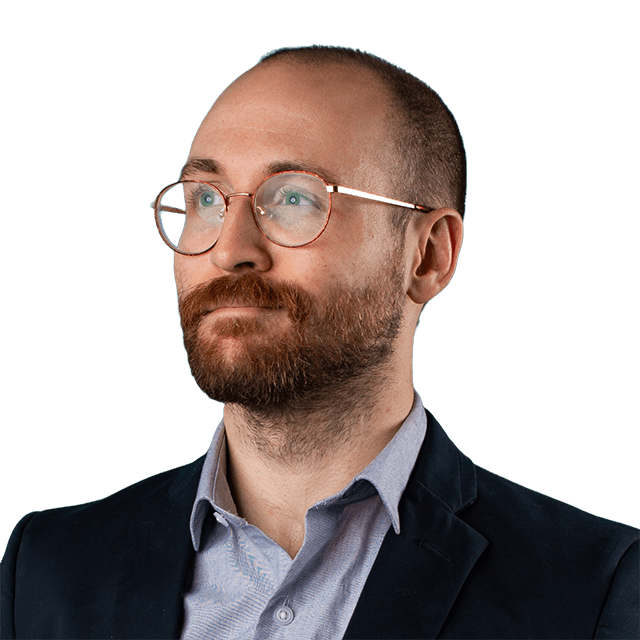
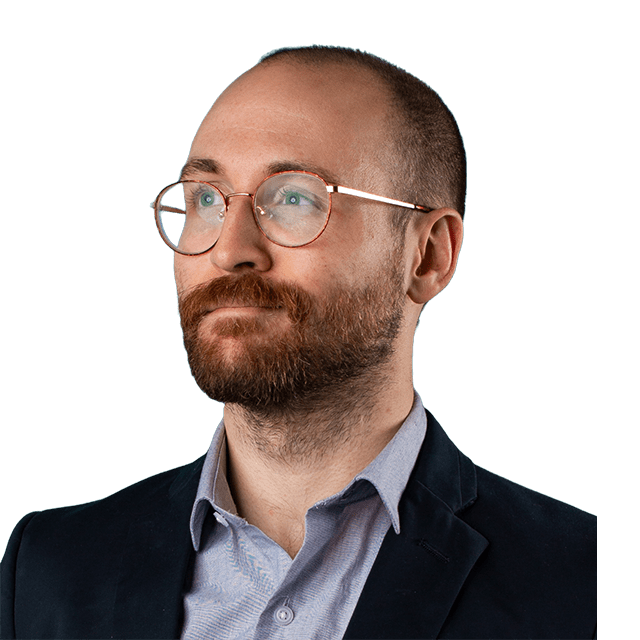
Updated HeroSection and added JobOffers, NavBar components

Changed region(s): [[0.9062, 0.8125, 1.0, 1.0]]

diff --git a/frontend/app/components/HeroSection.tsx b/frontend/app/components/HeroSection.tsx
@@ -4,9 +4,9 @@ import ZaidSchwartz from "@/public/images/zaid-schwartz.png";
 export default function HeroSection() {
     return (
         <header>
-            <div className="max-w-7xl mx-auto w-full px-10 mt-12 grid grid-cols-1 lg:grid-cols-12 items-center gap-12">
+            <div className="max-w-7xl mx-auto w-full px-10 grid grid-cols-1 lg:grid-cols-12 items-center gap-12">
                 <div className="lg:col-span-8">
-                    <h1 className="text-black text-6xl font-semibold leading-tight">
+                    <h1 className="text-black text-6xl font-semibold leading-tight -mt-30">
                         Trouvez le poste<br />
                         qui vous <span className="text-[#2563EB]">ressemble</span>.
                     </h1>
@@ -26,11 +26,11 @@ export default function HeroSection() {
                     </div>
                 </div>
 
-                <div className="lg:col-span-4 flex justify-end items-end">
+                <div className="lg:col-span-4 flex justify-end items-end z-10">
                     <Image
                         src={ZaidSchwartz}
                         alt="Zaid Schwartz"
-                        className="w-full max-w-[3600px] h-auto object-contain"
+                        className="w-full max-w-[3600px] min-w-[545px] h-auto object-contain"
                     />
                 </div>
             </div>

diff --git a/frontend/app/components/JobOffers.tsx b/frontend/app/components/JobOffers.tsx
@@ -1,7 +1,11 @@
+import SearchBar from "./SearchBar";
+
 export default function JobOffers() {
     return (
-        <div className="bg-black w-full h-screen">
-        <p>test</p>
+        <div className="bg-black w-full min-h-screen md:-mt-15 z-20 absolute">
+            <div className="max-w-7xl mx-auto px-10 relative -mt-13 z-30 mb-20">
+                <SearchBar/>
+            </div>
         </div>
     );
 }

diff --git a/frontend/app/components/SearchBar.tsx b/frontend/app/components/SearchBar.tsx
@@ -1,5 +1,6 @@
 export default function SearchBar() {
     return (
-        <></>
+        <div className="h-25 bg-[#171717] rounded-full">
+        </div>
     )
 }
